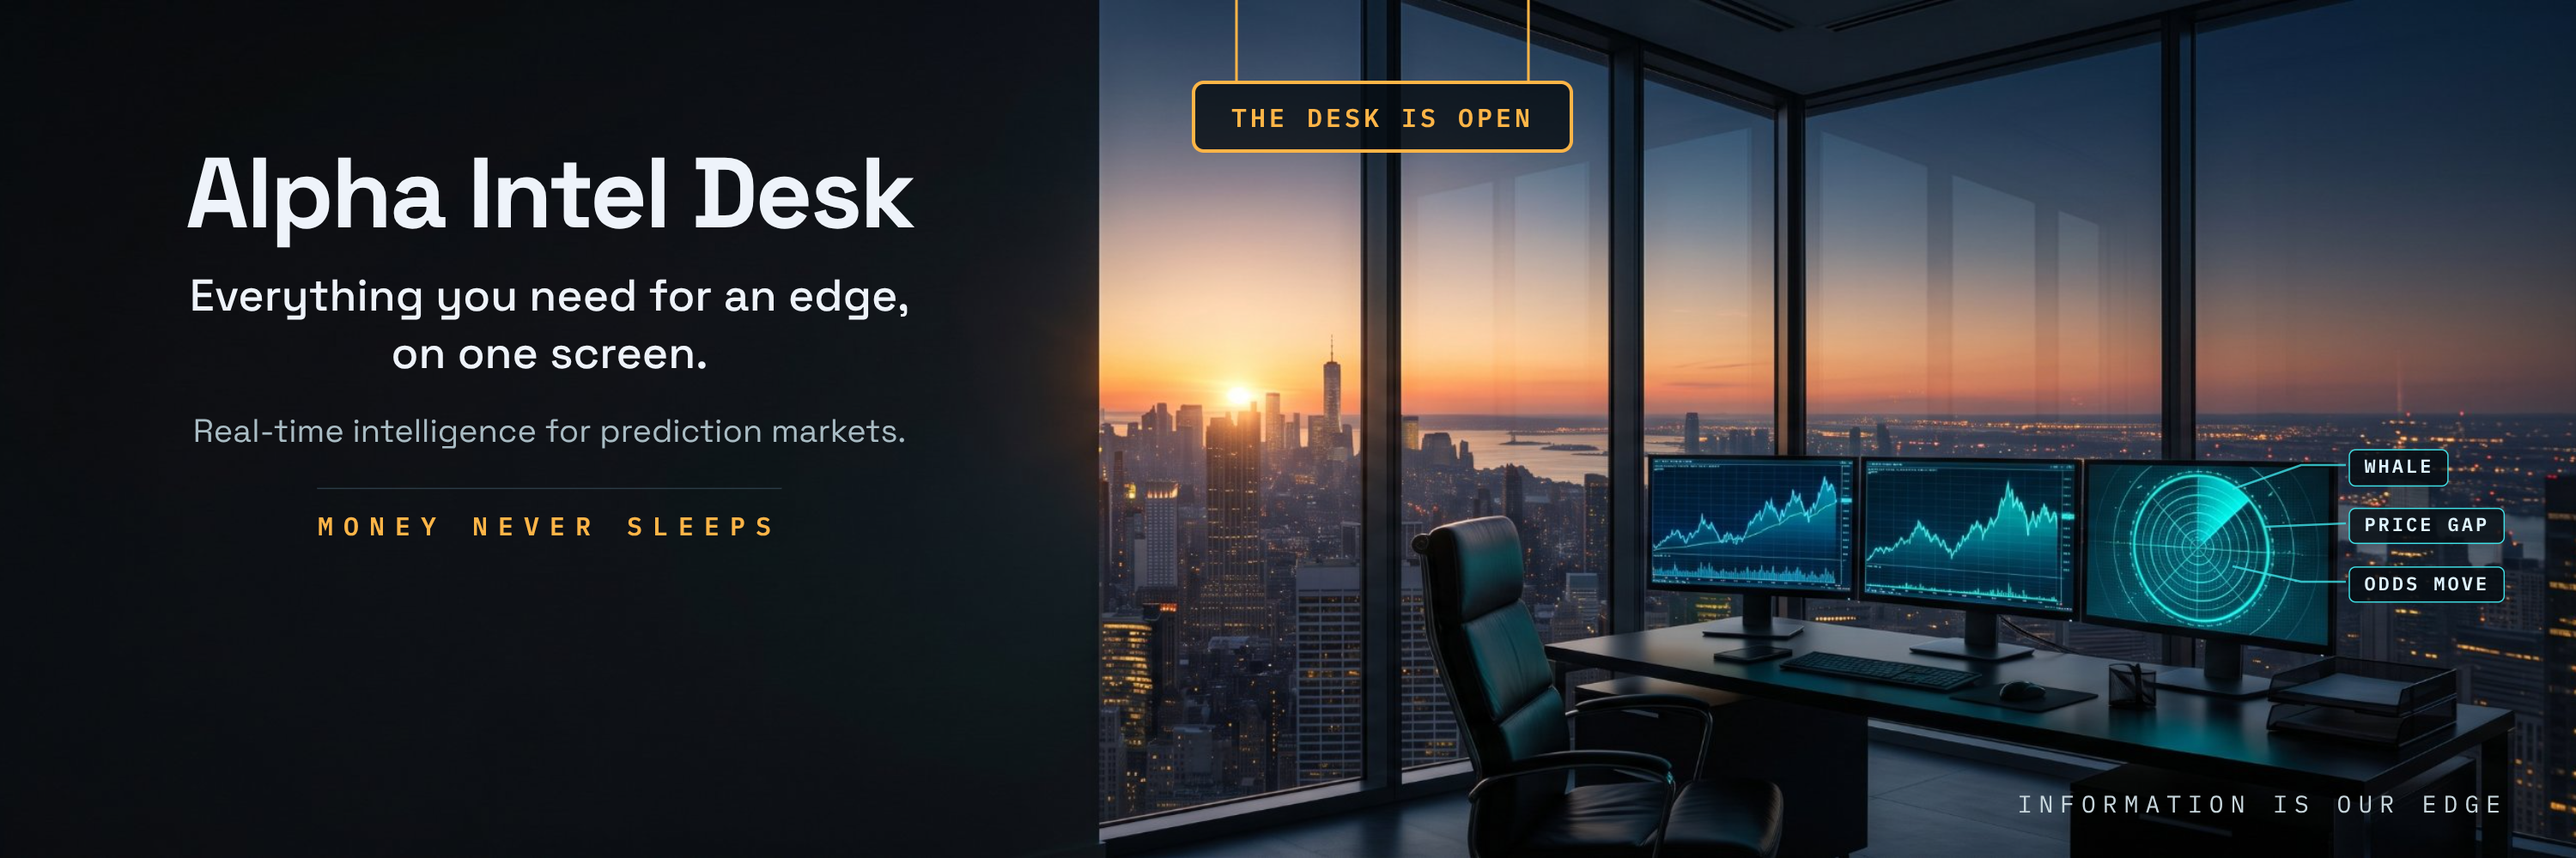
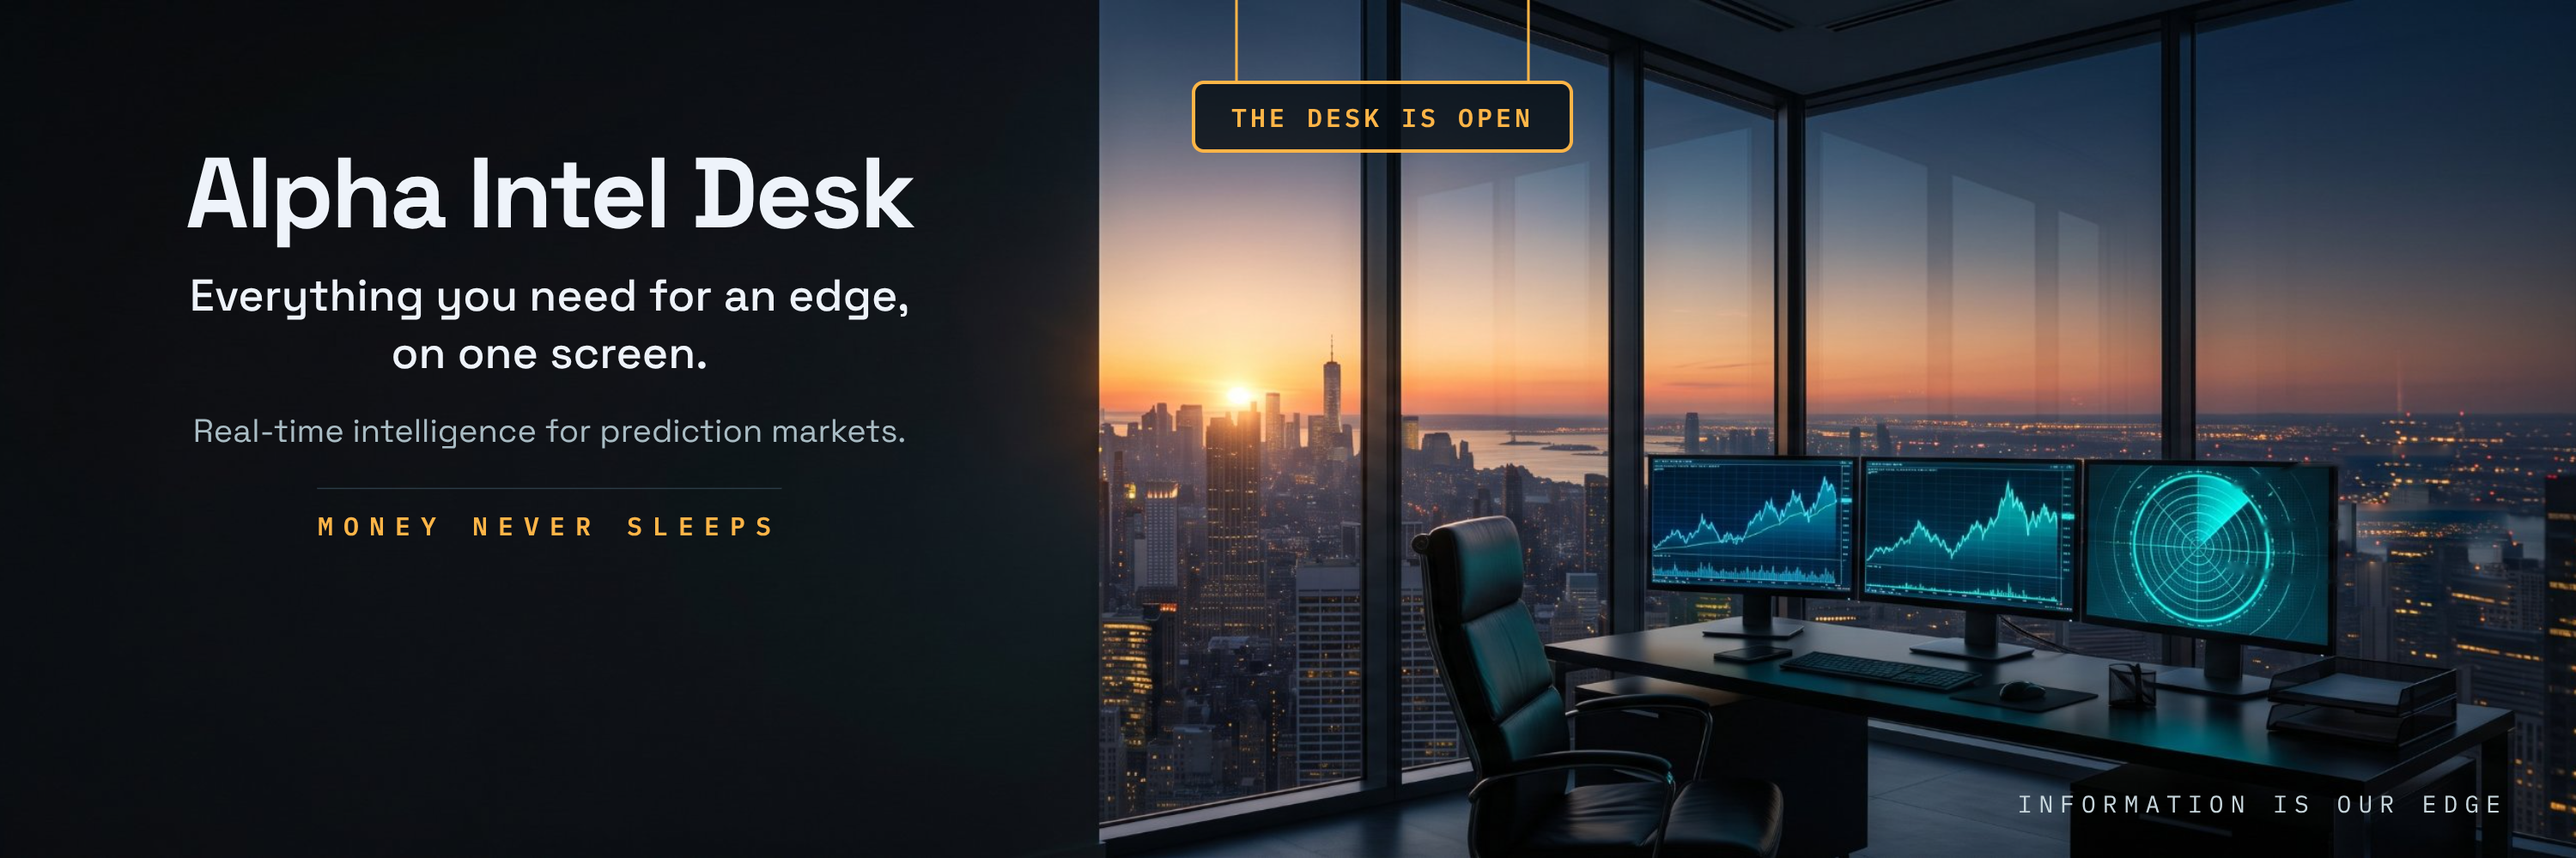
Home: full-width DESK IS OPEN neon strip; top sign removed; WHALE/PRICE GAP/ODDS MOVE taken off the photo
Claude-Session: https://claude.ai/code/session_011TXjZvzabnC9WSv4hzcNup

Changed region(s): [[0.868, 0.527, 0.992, 0.713]]

diff --git a/index.html b/index.html
@@ -22,7 +22,7 @@
 <meta name="twitter:image" content="https://alphainteldesk.com/card.jpg?v=202611260319">
 <meta name="twitter:card" content="summary_large_image">
 <meta name="twitter:site" content="@alphainteldesk">
-<link rel="preload" as="image" href="banner.jpg?v=5">
+<link rel="preload" as="image" href="banner.jpg?v=6">
 <link rel="preconnect" href="https://fonts.googleapis.com">
 <link href="https://fonts.googleapis.com/css2?family=Space+Grotesk:wght@400;500;700&family=JetBrains+Mono:wght@500;700;800&display=swap" rel="stylesheet">
 <style>
@@ -69,7 +69,12 @@
   .brk-side { flex:none; display:flex; align-items:center; justify-content:center; box-sizing:border-box; border-bottom:1px solid var(--line);
     background:linear-gradient(90deg, rgba(255,179,71,.05), rgba(5,12,20,.6) 30%, rgba(5,12,20,.6) 70%, rgba(255,179,71,.05)); }
   .brk-side[hidden] { display:none; }
-  .brk-side .sign { position:static; transform:none; font-size:.8rem; letter-spacing:.14em; padding:4px 16px; }
+  /* Nov 25 (James): the sign runs the full width of the strip and keeps its neon flicker */
+  .brk-side { padding:5px 12px; background:rgba(5,12,20,.93); border-top:1px solid rgba(255,179,71,.18); }
+  .brk-side .sign { position:static; transform:none; flex:1; display:flex; align-items:center; justify-content:center; gap:.9em; height:100%; box-sizing:border-box;
+    font:700 .82rem/1 "Space Grotesk",system-ui,sans-serif; letter-spacing:.42em; padding:0 0 0 .42em; border-radius:4px; }
+  .brk-side .sign::before, .brk-side .sign::after { content:""; flex:0 1 90px; height:1px; background:linear-gradient(90deg, rgba(255,179,71,0), rgba(255,179,71,.7)); }
+  .brk-side .sign::after { transform:scaleX(-1); }
   /* Nov 25 (James): LATEST line sits on the Intel Hub, same left edge and width, so the two read as one section (JS sets width/margin) */
   .brk.hubw { max-width:none; box-sizing:border-box; padding:7px 12px; gap:12px; background:linear-gradient(90deg, rgba(255,179,71,.1), rgba(5,12,20,.93) 45%), rgba(5,12,20,.93);
     border:1px solid rgba(255,92,92,.55); border-bottom-color:rgba(255,92,92,.25); box-shadow:0 0 24px rgba(255,92,92,.14); position:relative; z-index:4; }
@@ -322,7 +327,7 @@
   }
   /* ===== Live Intel Desk ===== */
   .desk { position:relative; width:100%; aspect-ratio:3/1; overflow:hidden;
-    background:#0b1420 url(banner.jpg?v=5) center/cover no-repeat; }
+    background:#0b1420 url(banner.jpg?v=6) center/cover no-repeat; }
   /* Nov 15: the photo's dark wall ends at ~42.6%; widen it to just past the screens (which now reach 45.1%) */
   .desk::before { content:""; position:absolute; left:0; top:0; bottom:0; width:45.8%; pointer-events:none;
     background:linear-gradient(90deg, rgb(13,17,22) 0, rgb(13,17,22) calc(100% - 10px), rgba(13,17,22,0) 100%); }
@@ -1108,7 +1113,7 @@
      duplicate "Alpha Intel Desk" title + 4 stat boxes). Old blocks kept in git history (commit before this). -->
 <section class="hx" aria-label="Alpha Intel Desk: live price gaps across Polymarket, Kalshi and Alpha Arcade">
   <div class="hx-l">
-    <div class="hx-top"><span class="sign">THE DESK IS OPEN</span><span class="hx-eb">Real-time intelligence for prediction markets</span></div>
+    <div class="hx-top"><span class="hx-eb">Real-time intelligence for prediction markets</span></div>
     <h1>Same question. Different price. <br><em>We find the gap, after fees.</em></h1>
     <p class="hx-only">The only desk tracking <b>Alpha Arcade on Algorand</b> side by side with Polymarket and Kalshi.</p>
     <div class="ib-sites" aria-label="Tracking Polymarket, Kalshi and Alpha Arcade"><span class="site s-poly"><i></i>POLYMARKET</span><span class="site s-kal"><i></i>KALSHI</span><span class="site s-alpha"><i></i>ALPHA ARCADE</span></div>
